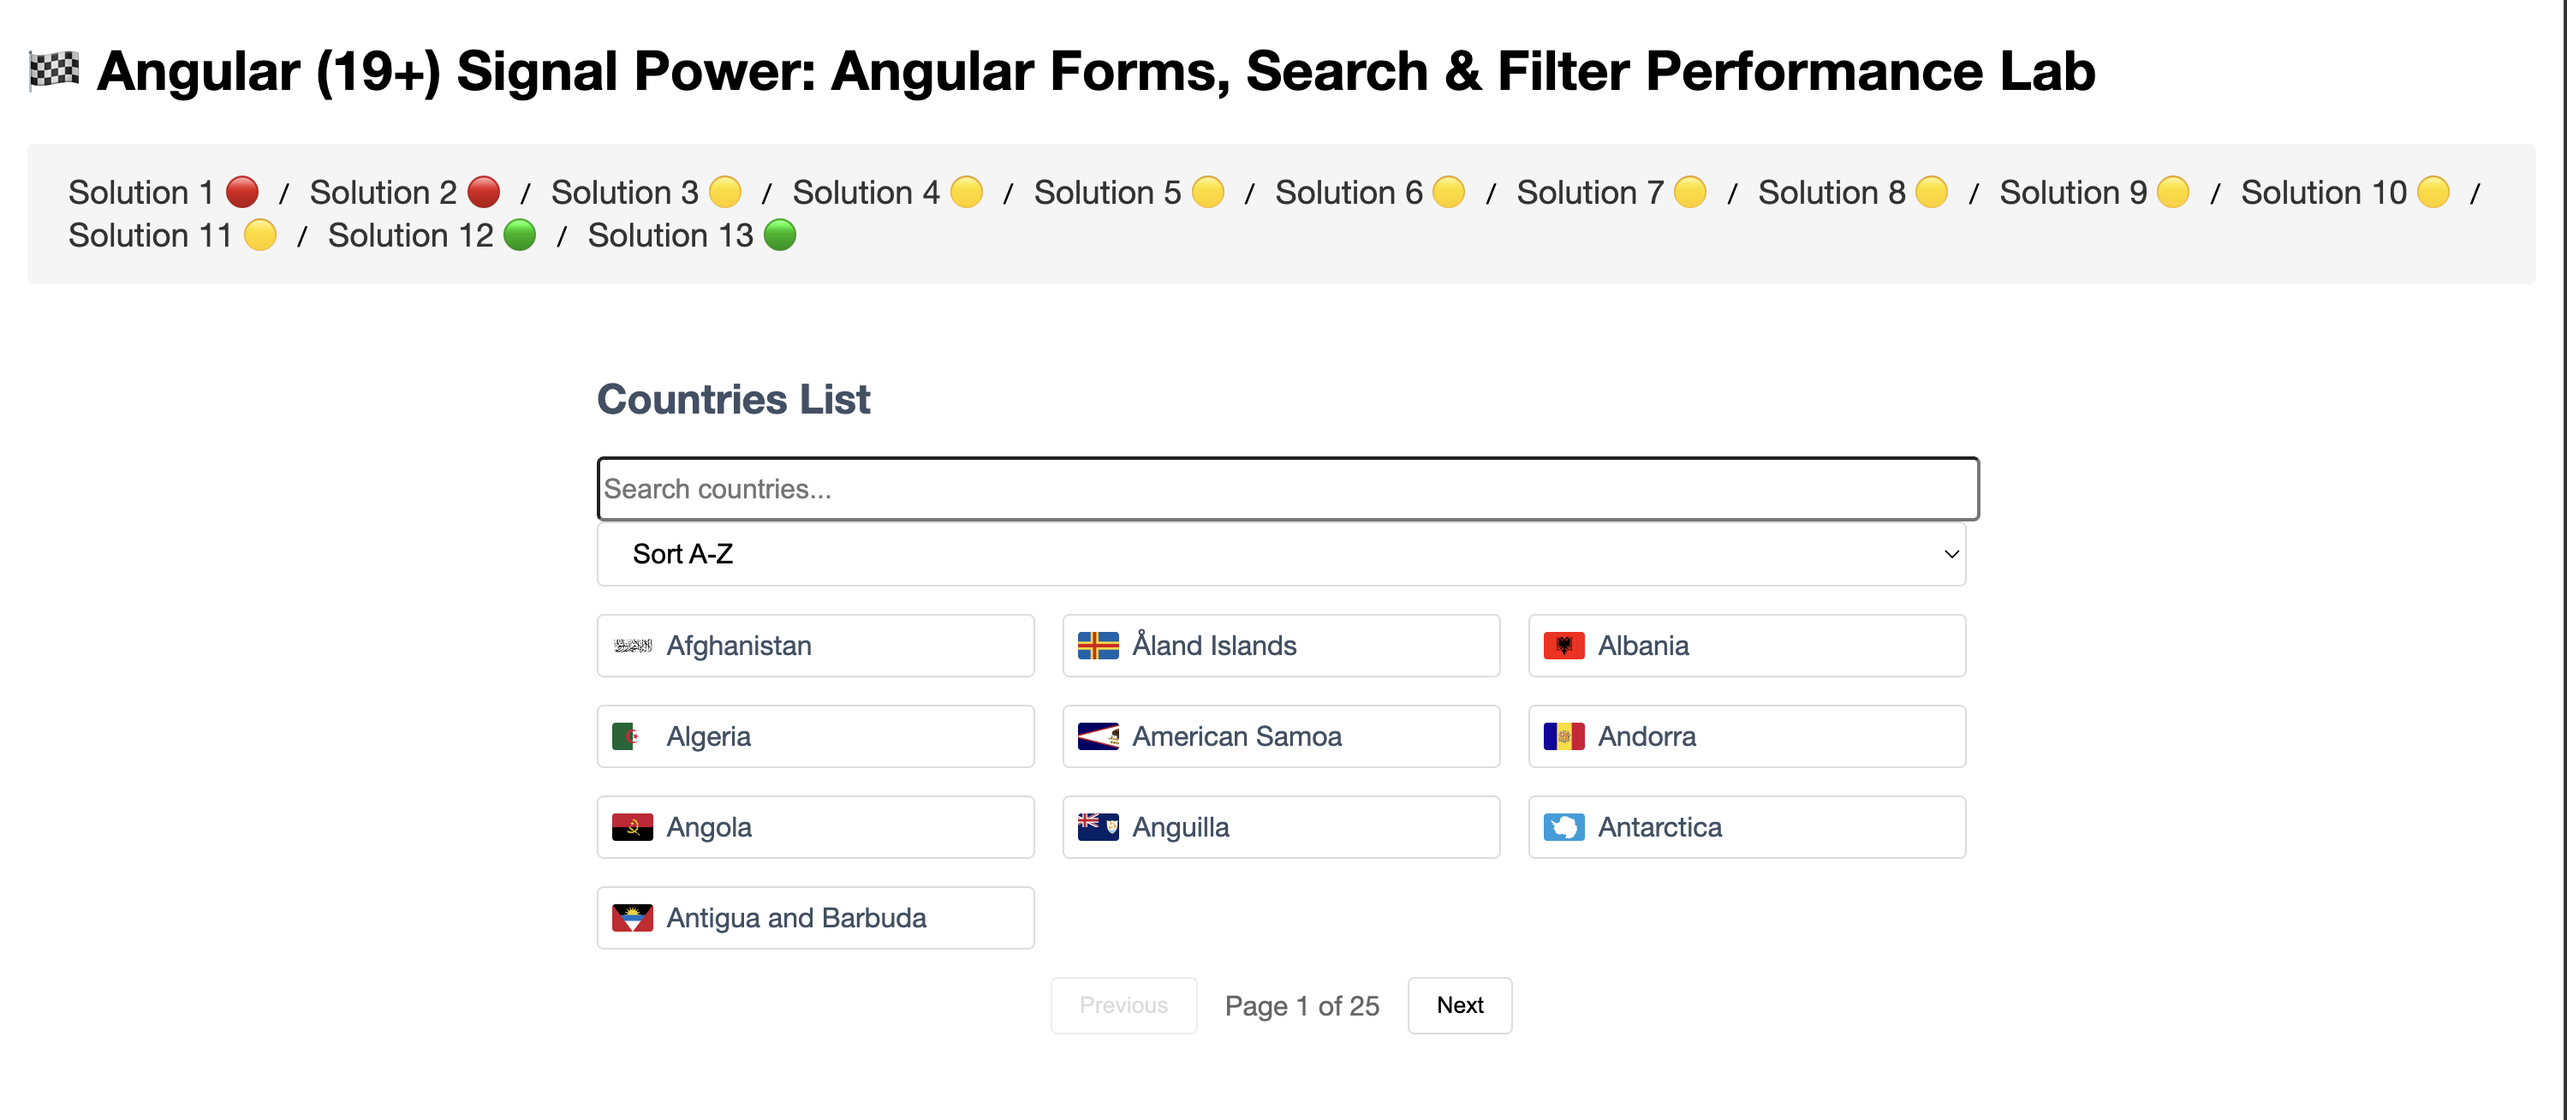
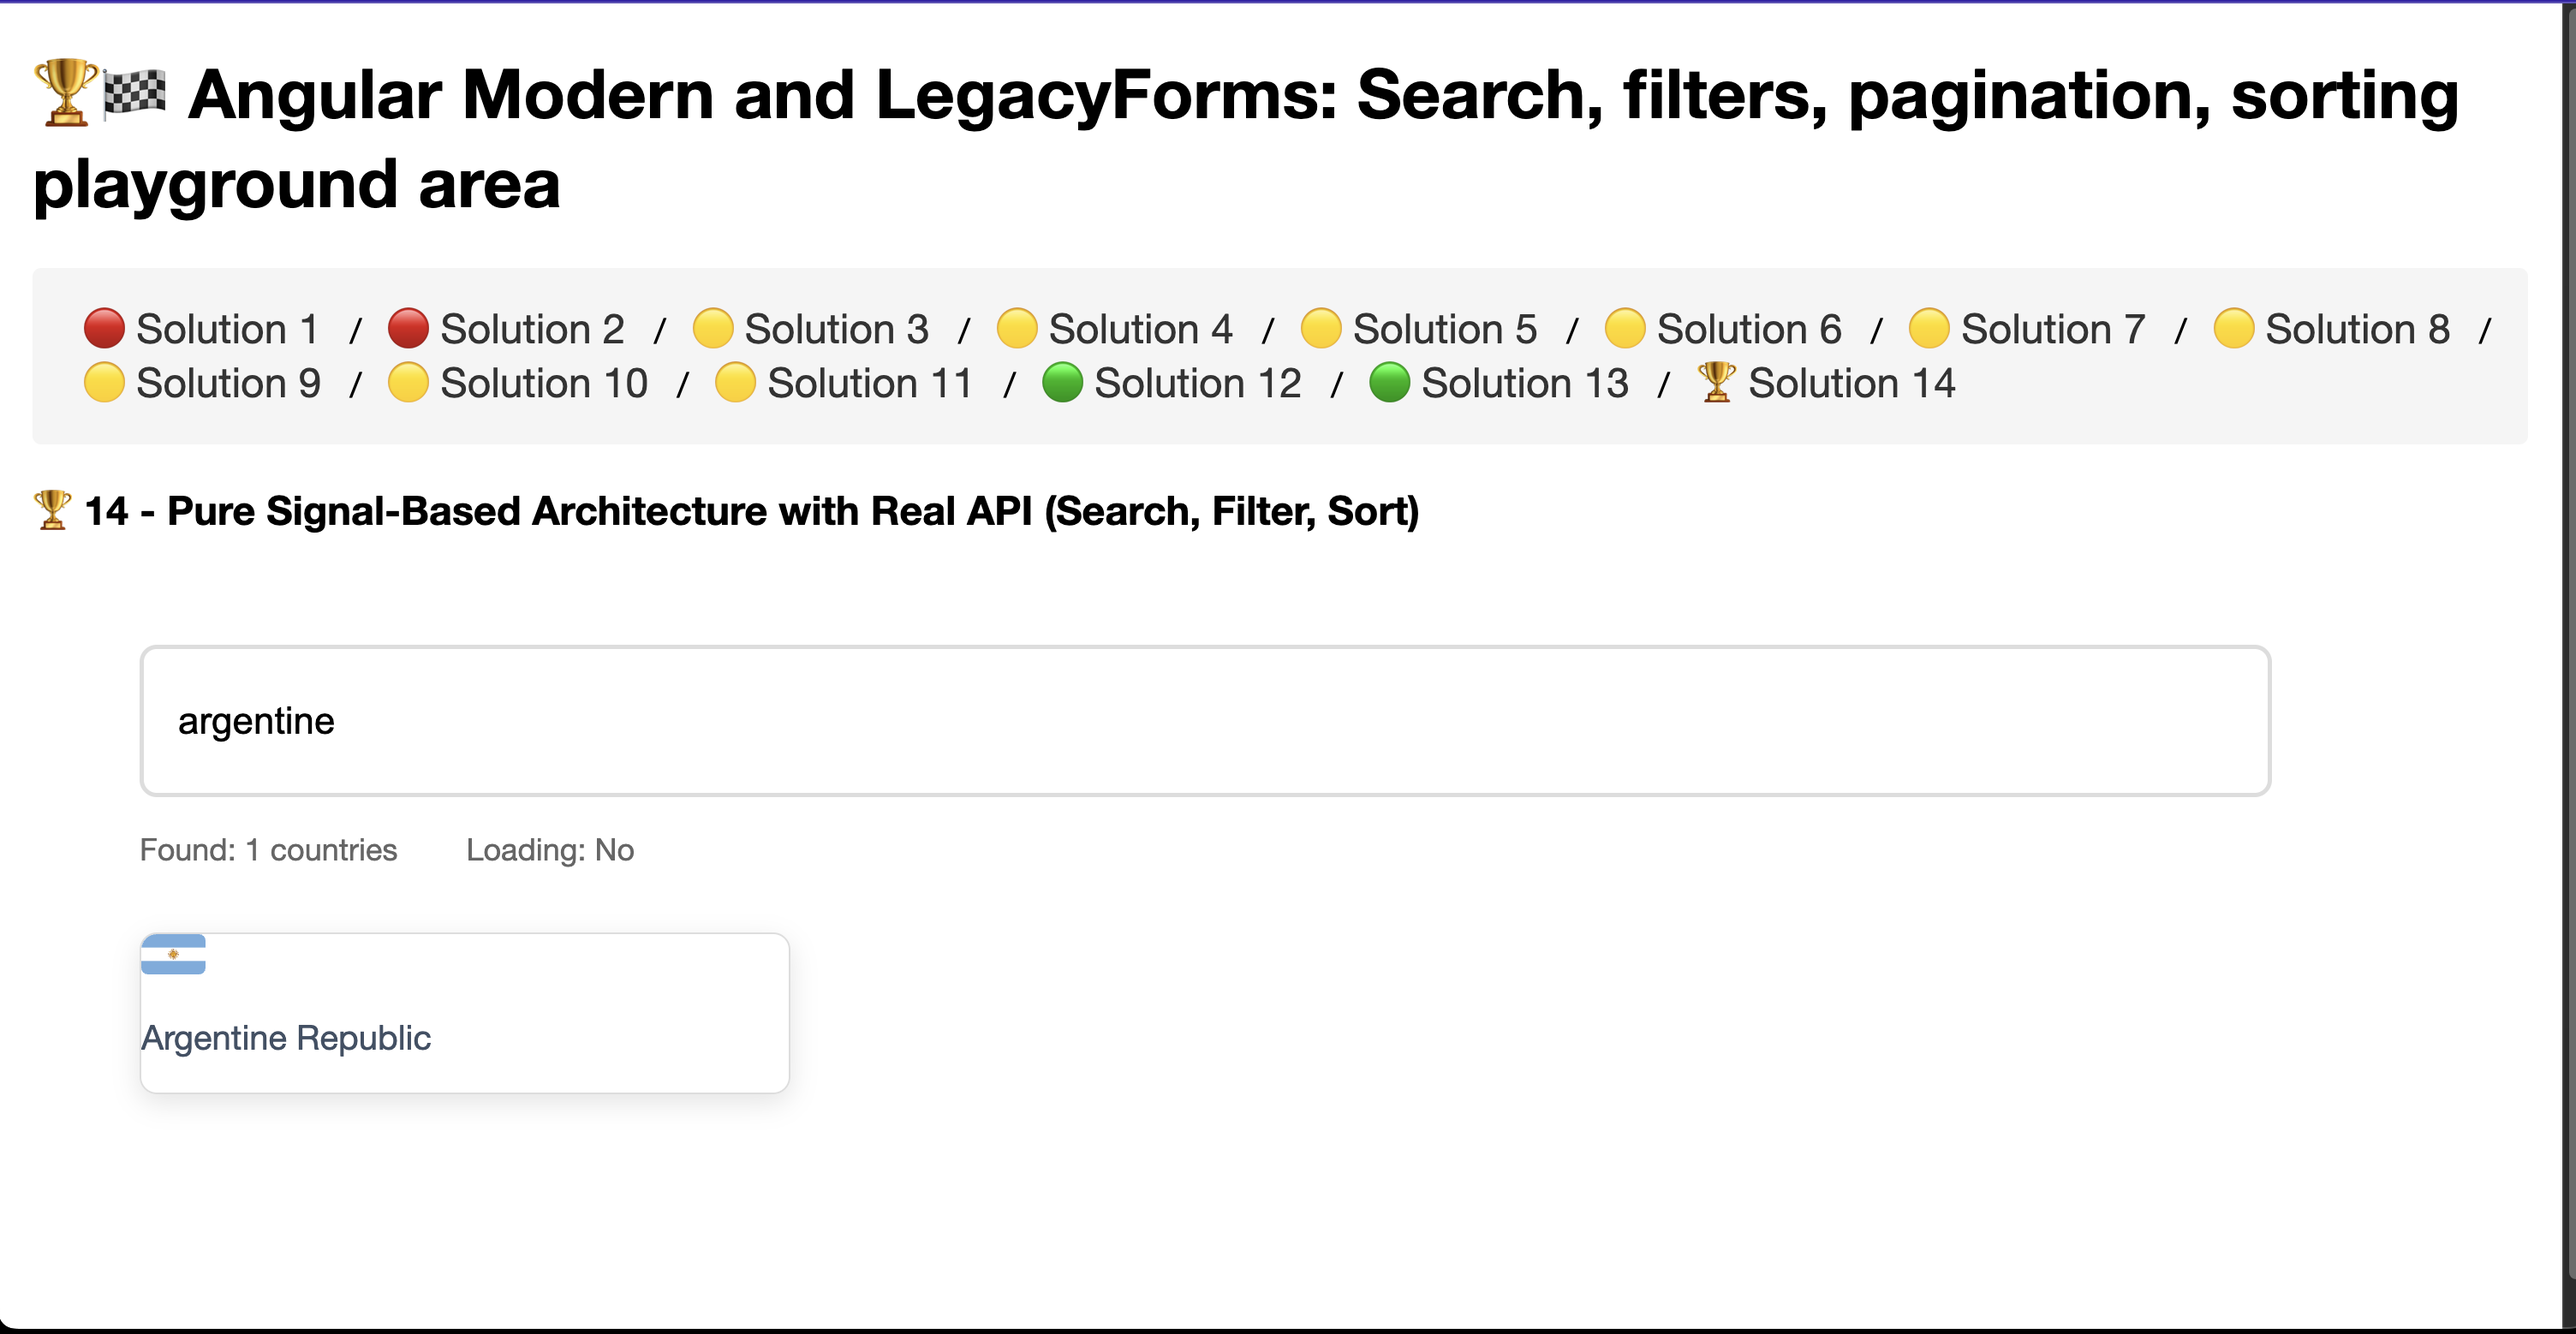
Adding a new pure singal based

diff --git a/src/app/Components/home/home.component.ts b/src/app/Components/home/home.component.ts
@@ -3,14 +3,138 @@ import { Component } from '@angular/core';
 @Component({
   standalone: true,
   template: `
-    <div class="card">
-      <div class="card-header">
-        {{pageTitle}}
-      </div>
-    </div>
-  `
+    <p>Note: The test should be updated to focus on modern Angular patterns and best practices, rather than legacy enterprise patterns. 
+      Modern forms are more powerful, performant, and maintainable than the old approaches</p>
+
+    <table class="ranking-table">
+      <thead>
+        <tr>
+          <th>Rank</th>
+          <th>Solution</th>
+          <th>Architecture</th>
+          <th>Modern Patterns</th>
+          <th>Legacy Patterns</th>
+          <th>Score</th>
+        </tr>
+      </thead>
+      <tbody>
+        <tr class="winner">
+          <td>🏆 1st</td>
+          <td><strong>Solution 14</strong></td>
+          <td>Pure Signal-Based</td>
+          <td>✅ Signals, OnPush CD, Modern Control Flow, Functional Injection, Readonly Properties</td>
+          <td>❌ None</td>
+          <td><strong>100%</strong></td>
+        </tr>
+        <tr class="silver">
+          <td>🥈 2nd</td>
+          <td><strong>Solution 13</strong></td>
+          <td>Signal-Based Component Composition</td>
+          <td>✅ Signals, Computed, Effects, Modern Control Flow, Component Composition</td>
+          <td>❌ None</td>
+          <td><strong>95%</strong></td>
+        </tr>
+        <tr class="bronze">
+          <td>🥉 3rd</td>
+          <td><strong>Solution 12</strong></td>
+          <td>Signal + FormBuilder Hybrid</td>
+          <td>✅ Signals, Computed, Effects, Modern Control Flow</td>
+          <td>❌ FormBuilder, FormGroup</td>
+          <td><strong>75%</strong></td>
+        </tr>
+        <tr class="partial">
+          <td>🟡 4th</td>
+          <td><strong>Solution 8</strong></td>
+          <td>Signal + Template Driven</td>
+          <td>✅ Signals, Effects, Modern Control Flow</td>
+          <td>❌ Template-driven forms</td>
+          <td><strong>70%</strong></td>
+        </tr>
+        <tr class="partial">
+          <td>🟡 5th</td>
+          <td><strong>Solution 9</strong></td>
+          <td>Signal + Template Driven</td>
+          <td>✅ Signals, Modern Control Flow</td>
+          <td>❌ Template-driven forms</td>
+          <td><strong>65%</strong></td>
+        </tr>
+        <tr class="legacy">
+          <td>❌ 6th</td>
+          <td><strong>Solution 3</strong></td>
+          <td>Reactive Forms</td>
+          <td>✅ takeUntilDestroyed</td>
+          <td>❌ FormGroup, FormControl, OnInit, Constructor Injection</td>
+          <td><strong>40%</strong></td>
+        </tr>
+        <tr class="legacy">
+          <td>❌ 7th</td>
+          <td><strong>Solution 4</strong></td>
+          <td>Reactive Forms + Material</td>
+          <td>✅ takeUntilDestroyed</td>
+          <td>❌ FormGroup, FormControl, OnInit, Constructor Injection</td>
+          <td><strong>35%</strong></td>
+        </tr>
+        <tr class="legacy">
+          <td>❌ 8th</td>
+          <td><strong>Solution 5</strong></td>
+          <td>Reactive Forms</td>
+          <td>✅ takeUntilDestroyed</td>
+          <td>❌ FormGroup, FormControl, OnInit, Constructor Injection</td>
+          <td><strong>30%</strong></td>
+        </tr>
+        <tr class="legacy">
+          <td>❌ 9th</td>
+          <td><strong>Solution 6</strong></td>
+          <td>Signal + Reactive Forms</td>
+          <td>✅ Signals, takeUntilDestroyed</td>
+          <td>❌ FormGroup, FormControl, OnInit, Constructor Injection</td>
+          <td><strong>45%</strong></td>
+        </tr>
+        <tr class="legacy">
+          <td>❌ 10th</td>
+          <td><strong>Solution 7</strong></td>
+          <td>Signal + Reactive Forms</td>
+          <td>✅ Signals, takeUntilDestroyed</td>
+          <td>❌ FormGroup, FormControl, OnInit, Constructor Injection</td>
+          <td><strong>50%</strong></td>
+        </tr>
+        <tr class="legacy">
+          <td>❌ 11th</td>
+          <td><strong>Solution 10</strong></td>
+          <td>Reactive Forms</td>
+          <td>✅ takeUntilDestroyed</td>
+          <td>❌ FormBuilder, FormGroup, OnInit, Constructor Injection</td>
+          <td><strong>25%</strong></td>
+        </tr>
+        <tr class="legacy">
+          <td>❌ 12th</td>
+          <td><strong>Solution 11</strong></td>
+          <td>Reactive Forms</td>
+          <td>✅ takeUntilDestroyed</td>
+          <td>❌ FormBuilder, FormGroup, OnInit, Constructor Injection</td>
+          <td><strong>20%</strong></td>
+        </tr>
+        <tr class="legacy">
+          <td>❌ 13th</td>
+          <td><strong>Solution 1</strong></td>
+          <td>Template Driven</td>
+          <td>✅ takeUntilDestroyed</td>
+          <td>❌ Template-driven forms, OnInit, Constructor Injection</td>
+          <td><strong>15%</strong></td>
+        </tr>
+        <tr class="legacy">
+          <td>❌ 14th</td>
+          <td><strong>Solution 2</strong></td>
+          <td>Template Driven</td>
+          <td>✅ takeUntilDestroyed</td>
+          <td>❌ Template-driven forms, OnInit, Constructor Injection</td>
+          <td><strong>10%</strong></td>
+        </tr>
+      </tbody>
+    </table>
+
+  `,
+  styleUrls: ['./home.component.scss']
 })
 export class HomeComponent {
-  public pageTitle = 'Angular search & filters playground area';
-
 }

diff --git a/src/app/Components/solution14/solution14.component.ts b/src/app/Components/solution14/solution14.component.ts
@@ -10,6 +10,14 @@ import { CountryService } from '../../services/country.service';
   imports: [CommonModule, FormsModule],
   changeDetection: ChangeDetectionStrategy.OnPush,
   template: `
+<!-- 
+-Solution 14: Pure Signal-Based Architecture with Real API (Search, Filter, Sort)
+- Uses signal(), computed(), effect()
+- Modern control flow (@if, @for)
+- Component composition
+- Pure signal-based state management
+- No legacy FormBuilder/FormGroup
+-->
     <h3>{{ title }}</h3>
     <div class="container">
       <div class="search-container">
@@ -196,3 +204,22 @@ export class Solution14Component {
     });
   }
 }
+
+// ❌ No legacy FormBuilder/FormGroup: Uses old reactive forms API
+// ❌ Complex FormGroup/FormControl: Over-engineered for simple forms
+// ❌ No Modern Patterns: Missing signals, model inputs, modern control flow
+// ❌ Enterprise Focus: Focuses on "hireable" rather than "modern and efficient"
+// ❌ template-driven forms
+// ❌ Use OnInit lifecycle hooks
+// ❌ No OnPush change detection
+
+
+
+// 🏆 Modern Form Benefits
+// ✅ Signal-Based: Reactive state management:  Uses signal(), computed(), effect()
+// ✅ Schema-Driven: Configuration-based forms
+// ✅ Real-Time Validation: Computed validation signals
+// ✅ Modern Control Flow: @if, @for instead of *ngIf, *ngFor
+// ✅ OnPush CD: Better performance
+// ✅ Standalone: No NgModules needed
+// ✅ Type-Safe: Full TypeScript support

diff --git a/src/app/Components/home/home.component.scss b/src/app/Components/home/home.component.scss
@@ -1,0 +1,52 @@
+.ranking-table {
+  width: 100%;
+  border-collapse: collapse;
+  margin: 20px 0;
+  font-family: -apple-system, BlinkMacSystemFont, 'Segoe UI', Roboto, sans-serif;
+}
+
+.ranking-table th,
+.ranking-table td {
+  padding: 12px;
+  text-align: left;
+  border-bottom: 1px solid #ddd;
+}
+
+.ranking-table th {
+  background-color: #f8f9fa;
+  font-weight: 600;
+  color: #333;
+}
+
+.ranking-table tr:hover {
+  background-color: #f5f5f5;
+}
+
+.ranking-table .winner {
+  background-color: #d4edda;
+  border-left: 4px solid #28a745;
+}
+
+.ranking-table .silver {
+  background-color: #e2e3e5;
+  border-left: 4px solid #6c757d;
+}
+
+.ranking-table .bronze {
+  background-color: #f8d7da;
+  border-left: 4px solid #dc3545;
+}
+
+.ranking-table .partial {
+  background-color: #fff3cd;
+  border-left: 4px solid #ffc107;
+}
+
+.ranking-table .legacy {
+  background-color: #f8f9fa;
+  border-left: 4px solid #6c757d;
+}
+
+.ranking-table strong {
+  color: #007bff;
+}

diff --git a/src/app/Components/solution13/solution13.component.ts b/src/app/Components/solution13/solution13.component.ts
@@ -1,5 +1,5 @@
 import { CommonModule } from '@angular/common';
-import { Component, computed, effect, signal } from '@angular/core';
+import { ChangeDetectionStrategy, Component, computed, effect, signal } from '@angular/core';
 import { SignalCountryService } from '../../services/signal-country.service';
 import { SignalFilterComponent } from './signal-filter.component';
 import { SignalListComponent } from './signal-list.component';
@@ -16,7 +16,16 @@ import { SignalSortComponent } from './signal-sort.component';
         SignalPaginationComponent,
         SignalSortComponent
     ],
+    changeDetection: ChangeDetectionStrategy.OnPush,
     template: `
+<!-- 
+-Solution 13: Signal-based Component Driven Architecture
+-Uses signal(), computed(), effect()
+-Modern control flow (@if, @for)
+-Component composition
+-Pure signal-based state management
+No legacy FormBuilder/FormGroup
+-->
       <h3>{{ title }}</h3>
       <div class="container">
         

diff --git a/src/app/app.component.ts b/src/app/app.component.ts
@@ -46,6 +46,6 @@ import { RouterLink, RouterOutlet } from '@angular/router';
   `]
 })
 export class AppComponent {
-  title = '🏆🏁 Angular Signal Power: Angular Forms, Search & Filter Performance Lab';
+  title = '🏆🏁 Angular Modern and LegacyForms: Search, filters, pagination, sorting playground area';
 }
 

diff --git a/README.md b/README.md
@@ -7,6 +7,10 @@
 
 ## Demo
 
+- Score
+![demo](./src/assets/forms-playground4.png)
+
+- Winner example 14 - Pure Signal-Based Architecture 
 ![demo](./src/assets/forms-playground3.png)
 
 ---
@@ -49,11 +53,18 @@
 | 11 | Component-driven (filter, sort, pagination), RxJS, modular | 2 | Very modular, but not using Signals. Good for classic Angular. |
 
 
-### Solutions 12–13: Full Signals, Modern trendy Angular
+### Solutions 12–13: Hybrid Signals, Modern trendy Angular
 | Solution | Approach | Rating | Notes |
 |----------|----------|--------|-------|
 | 12 | Component-driven, full Signals (computed, effect, toSignal), modular | 3 | Modern, scalable, maintainable, highly recommended. |
-| 13 | Full Signals (signal, computed, effect), modular, idiomatic | 3 | Most recommended: idiomatic, performant, future-proof, best for new Angular projects. |
+| 13 | Hybrid Signals (signal, computed, effect), modular, idiomatic | 3 | Mostly Remmended: idiomatic, performant, future-proof, best for new Angular projects. |
+
+
+### Solutions 14: Pure Signals, Modern trendy Angular
+| Solution | Approach | Rating | Notes |
+|----------|----------|--------|-------|
+| 14 | Pure Signal-Based Architecture  | 3 | Remmended: idiomatic, performant, future-proof, trendy, follow Angular best practices and best for new and future Angular projects. |
+
 
 ---
 
@@ -101,12 +112,11 @@
 - `Solutions 1–5` are not recommended for new projects.
 - `Solutions 6–11` are transitional or modular, but not as modern as full Signals-based approaches.
 - `Solution 13` is the most recommended, followed closely by `Solution 12`. Both use Angular Signals throughout, are modular, and align with the latest Angular best practices and trends for 2024 and beyond.
-
-> If you want the best performance, maintainability, and future-proofing, use Solution 13.
+- `Solution 14` is the the recommended, followed closely by `Solution 14`. This align with 2025 best practices and recommendations.
 
 ---
 
-## INdividual solutions explanation
+## Individual solutions explanation
 
 1) ✅ Uses:
 - Template-driven forms with [(ngModel)] 2-way binding with ngModelChange
@@ -252,7 +262,7 @@ totalCount = computed(() => this.sortedCountries().length);
 totalPages = computed(() => Math.ceil(this.totalCount() / this.itemsPerPage));
 ```
 
-### Effects for side effects
+### Effects (for side effects)
 
 ```js
 effect(() => {
